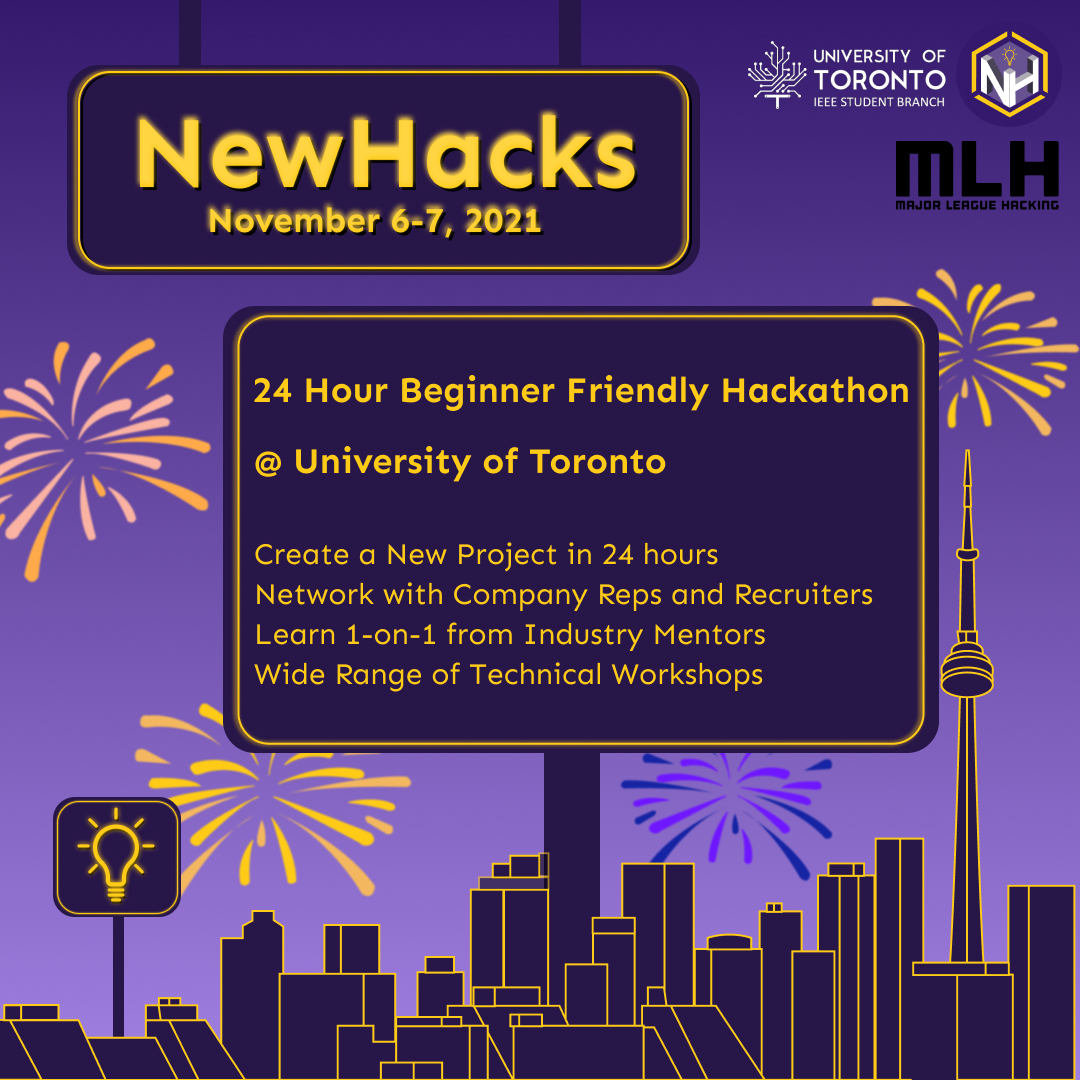
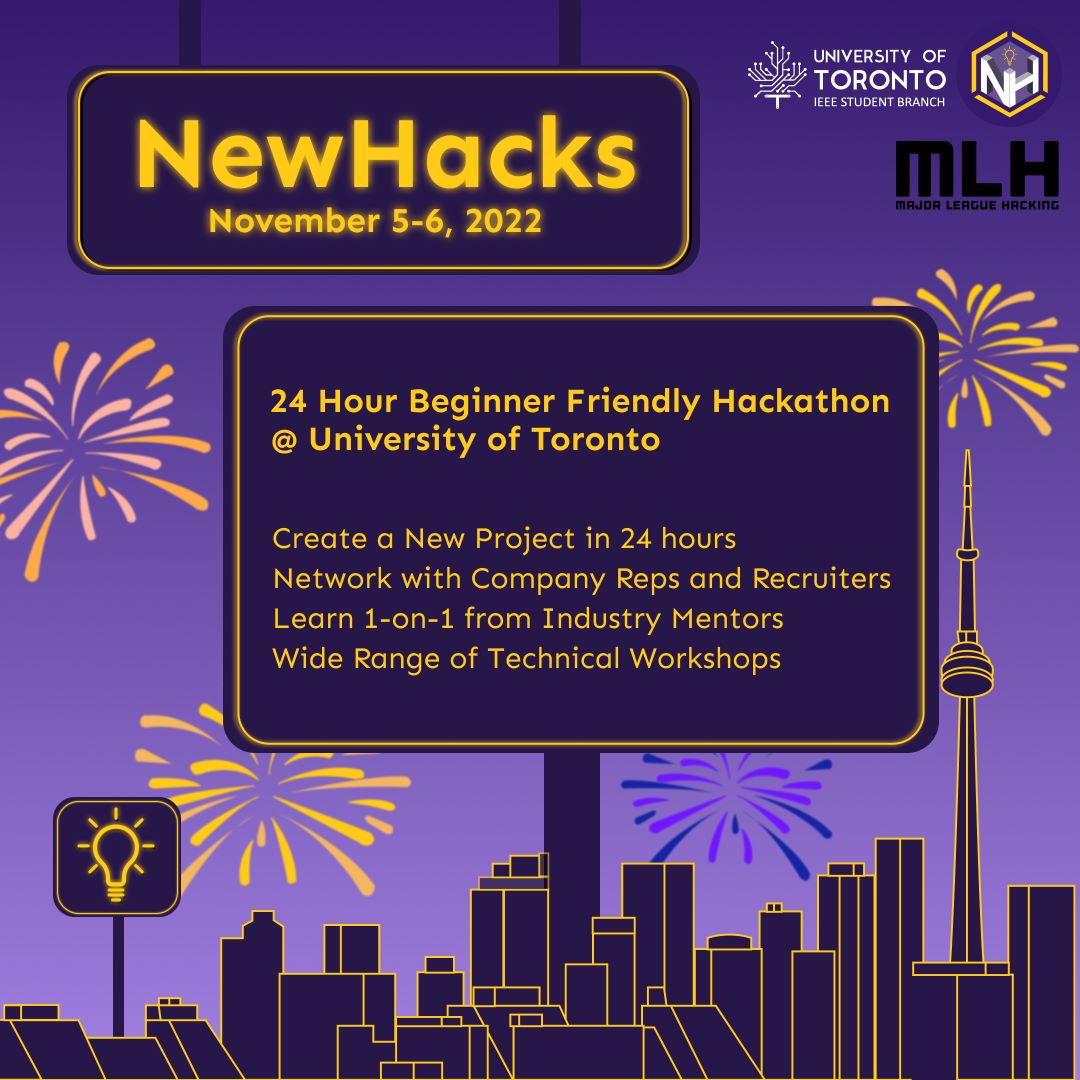
Updated Events with new Graphics

diff --git a/src/Assets/Lists/allEvents.js b/src/Assets/Lists/allEvents.js
@@ -4,41 +4,41 @@
 
 export const allEvents = [
     {
-        EventName: "Technical Interview Workshop",
-        displayDate: "October 5, 2021",
-        date: "2021/10/05",
-        link:
-            "https://ieee.utoronto.ca/",
+        EventName: "First Year Recruitment",
+        // is date necessary?
+        date: "2022/10/05",
+        link: "https://forms.gle/ua2gKPgu3DGWC3wz9",
+        highlightEvent: true,
+    },
+    {
+        EventName: "Technical Interview Night",
+        displayDate: "October 5, 2022",
+        date: "2022/10/05",
+        link: "https://ieee.utoronto.ca/",
         highlightEvent: false,
     },
     {
-        EventName: "Django Workshop",
-        displayDate: "October 14th, 2021",
-        date: "2021/10/14",
-        link: "https://www.eventbrite.ca/e/django-workshop-tickets-162473995093",
+        EventName: "MakeUofT",
+        displayDate: "February 18-19, 2022",
+        date: "2022/02/18",
+        link: "https://ieee.utoronto.ca/",
         highlightEvent: false,
     },
     {
+        // waiting for new graphic with updated event date
         EventName: "React Workshop",
-        displayDate: "October 28th, 2021",
-        date: "2021/10/28",
-        link: "https://www.eventbrite.ca/e/react-workshop-tickets-162476741307",
+        displayDate: "September 22nd, 2022",
+        date: "2021/09/22",
+        link: "https://ieee.utoronto.ca/",
         highlightEvent: false,
     },
     {
         EventName: "NewHacks",
-        displayDate: "November 6-7, 2021",
-        date: "2021/11/06",
+        displayDate: "November 5-6, 2022",
+        date: "2022/11/05",
         link: "https://www.newhacks.ca/",
         highlightEvent: true,
     },
-    {
-        EventName: "PCB Workshop",
-        displayDate: "January 20th, 2022",
-        date: "2022/01/20",
-        link: "https://ieee.utoronto.ca/",
-        highlightEvent: false,
-    }
 ];
 
 export default allEvents;

diff --git a/src/Components/Home/Upcoming/Upcoming.js b/src/Components/Home/Upcoming/Upcoming.js
@@ -44,7 +44,7 @@ const Upcoming = () => {
             onLoad={() => upcomingEvents()}
         >
             <h2 className={styles.upcomingDivHeading}>
-                {recentHighlights ? "Last Year's Highlights" : "Upcoming Events"}
+                {recentHighlights ? "Last Year's Highlights" : "Currently Happening"}
             </h2>
             <div className={`${styles.upcoming} ${upcomingClass}`}>
                 {upcomingList.map((eventItem, i) => {
